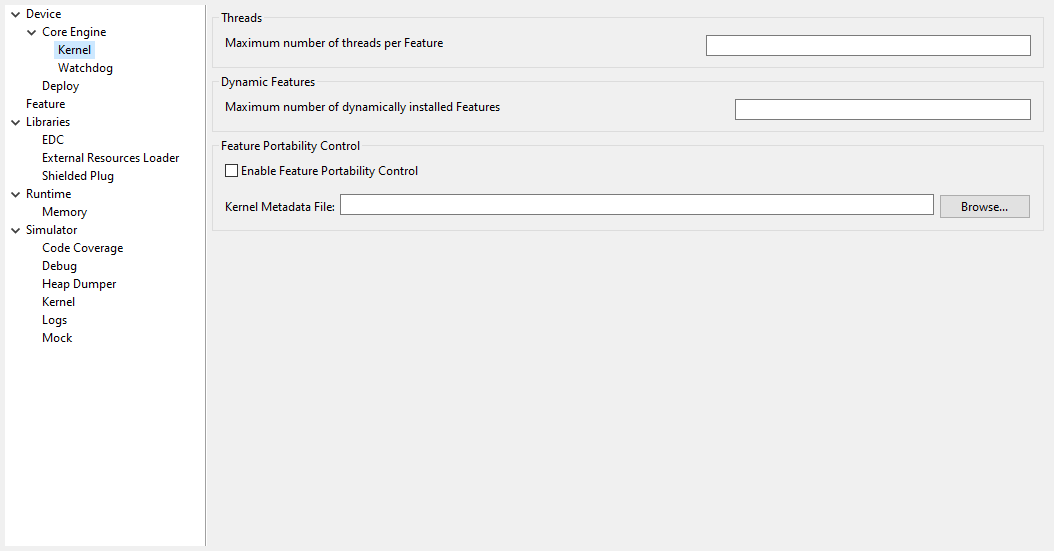
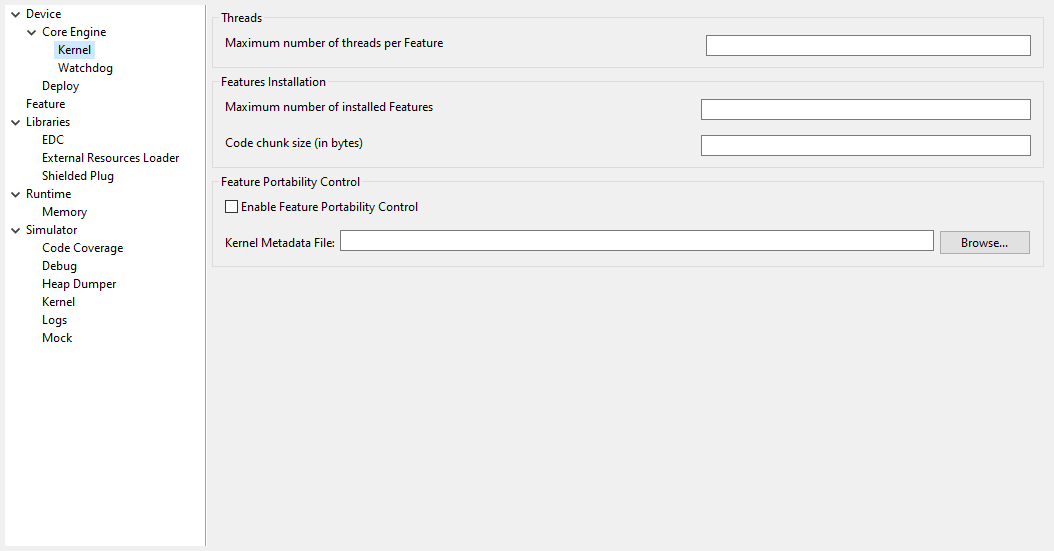
update kernel options

diff --git a/ApplicationDeveloperGuide/sectionArchitectureOptions.rst b/ApplicationDeveloperGuide/sectionArchitectureOptions.rst
@@ -835,8 +835,8 @@ Option(text):
 Specifies the maximum number of threads a Feature is allowed to use at the same
 time.
 
-Group: Dynamic Features
-"""""""""""""""""""""""
+Group: Features Installation
+""""""""""""""""""""""""""""
 
 .. _option_maximum_number_of_dynamic_features:
 
@@ -849,10 +849,21 @@ Option(text):
 
 *Description*:
 
-Specifies the maximum number of Features that can be dynamically installed to
+Specifies the maximum number of Features that can be installed to
 this Kernel (see `Kernel.install()`_ method).
 
 .. _Kernel.install(): https://repository.microej.com/javadoc/microej_5.x/apis/ej/kf/Kernel.html#install-java.io.InputStream-
+
+Option(text):
+~~~~~~~~~~~~~~
+
+*Option Name*: ``com.microej.soar.kernel.featurecodechunk.size``
+
+*Default value*: ``65536``
+
+*Description*:
+
+Specifies the size in bytes of the code chunk in RAM. See :ref:`feature_code_chunk_size` section for more details.
 
 .. _option_feature_stop_timeout:
 

diff --git a/VEEPortingGuide/multiSandbox.rst b/VEEPortingGuide/multiSandbox.rst
@@ -174,6 +174,8 @@ To ensure that the Features remain available even after the device restarts, you
 Advanced Options
 ----------------
 
+.. _feature_code_chunk_size:
+
 Code Chunk Size
 ~~~~~~~~~~~~~~~
 
